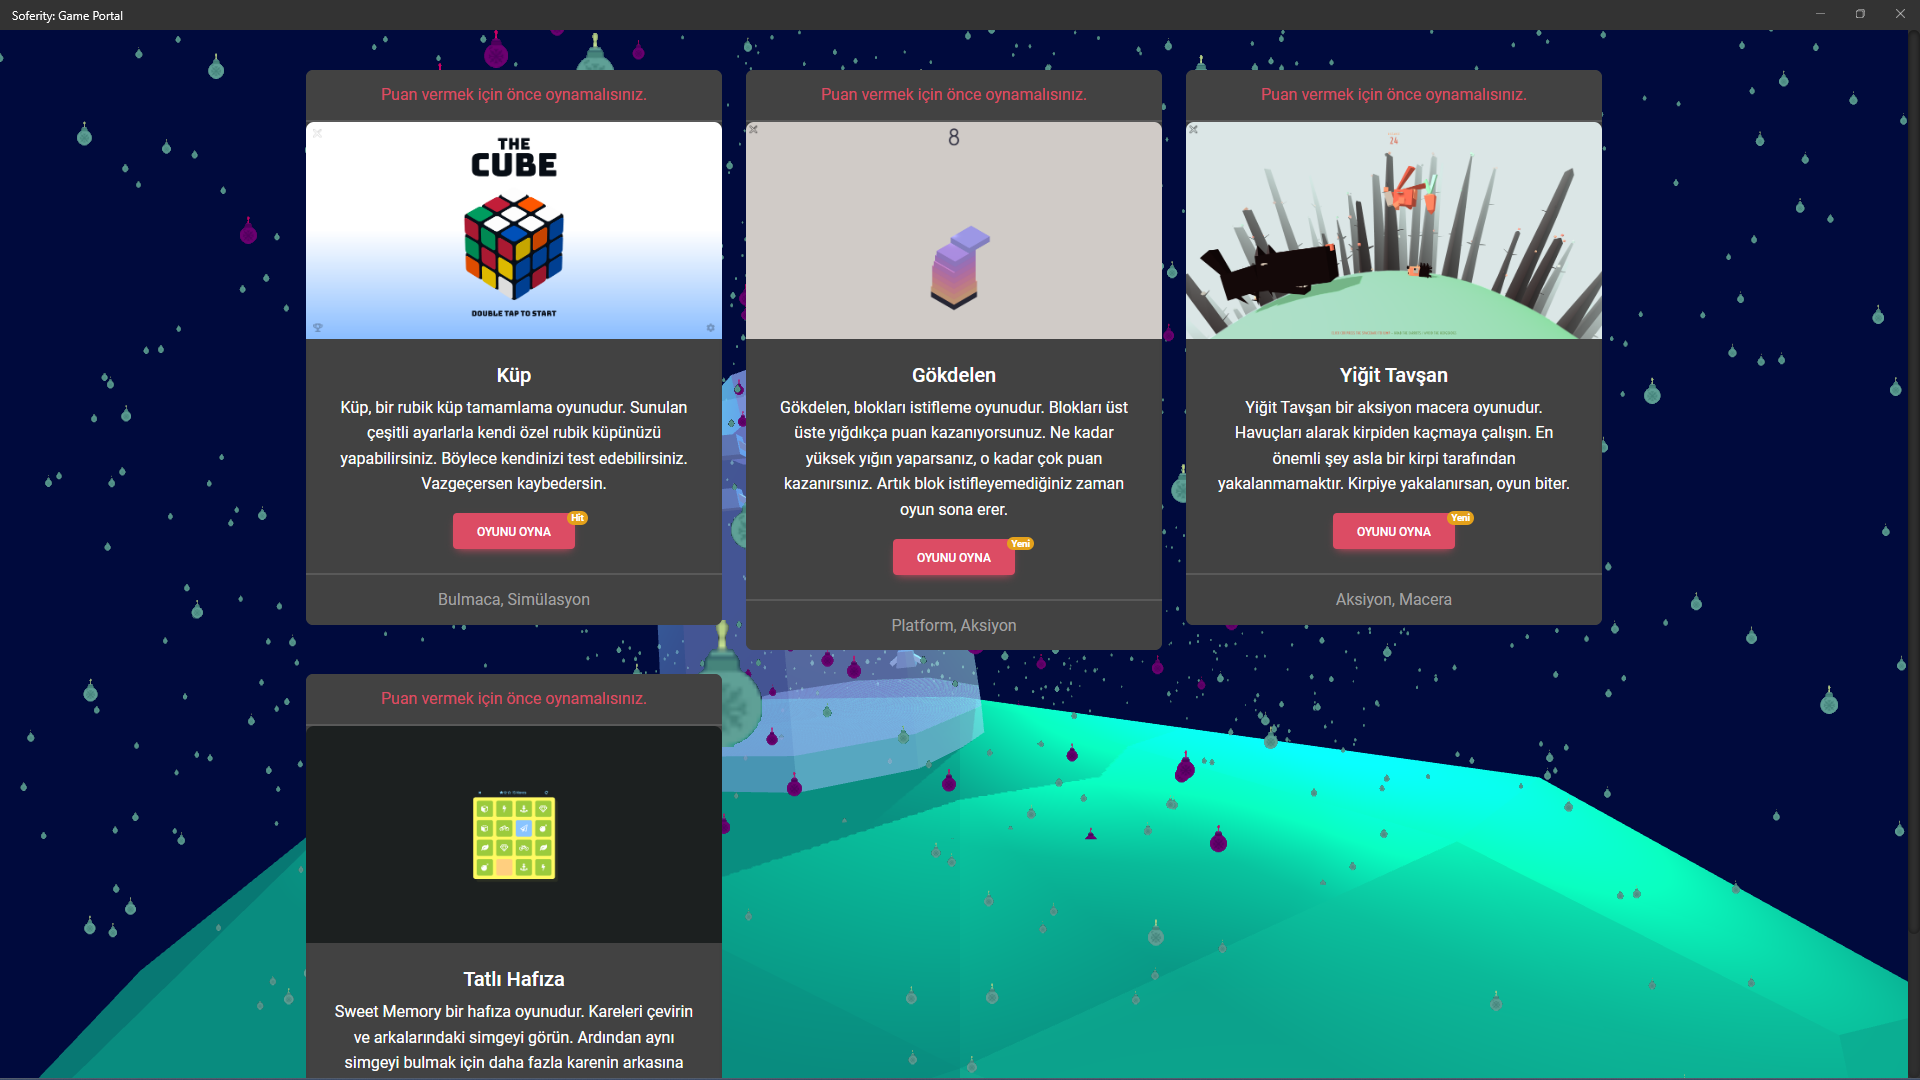
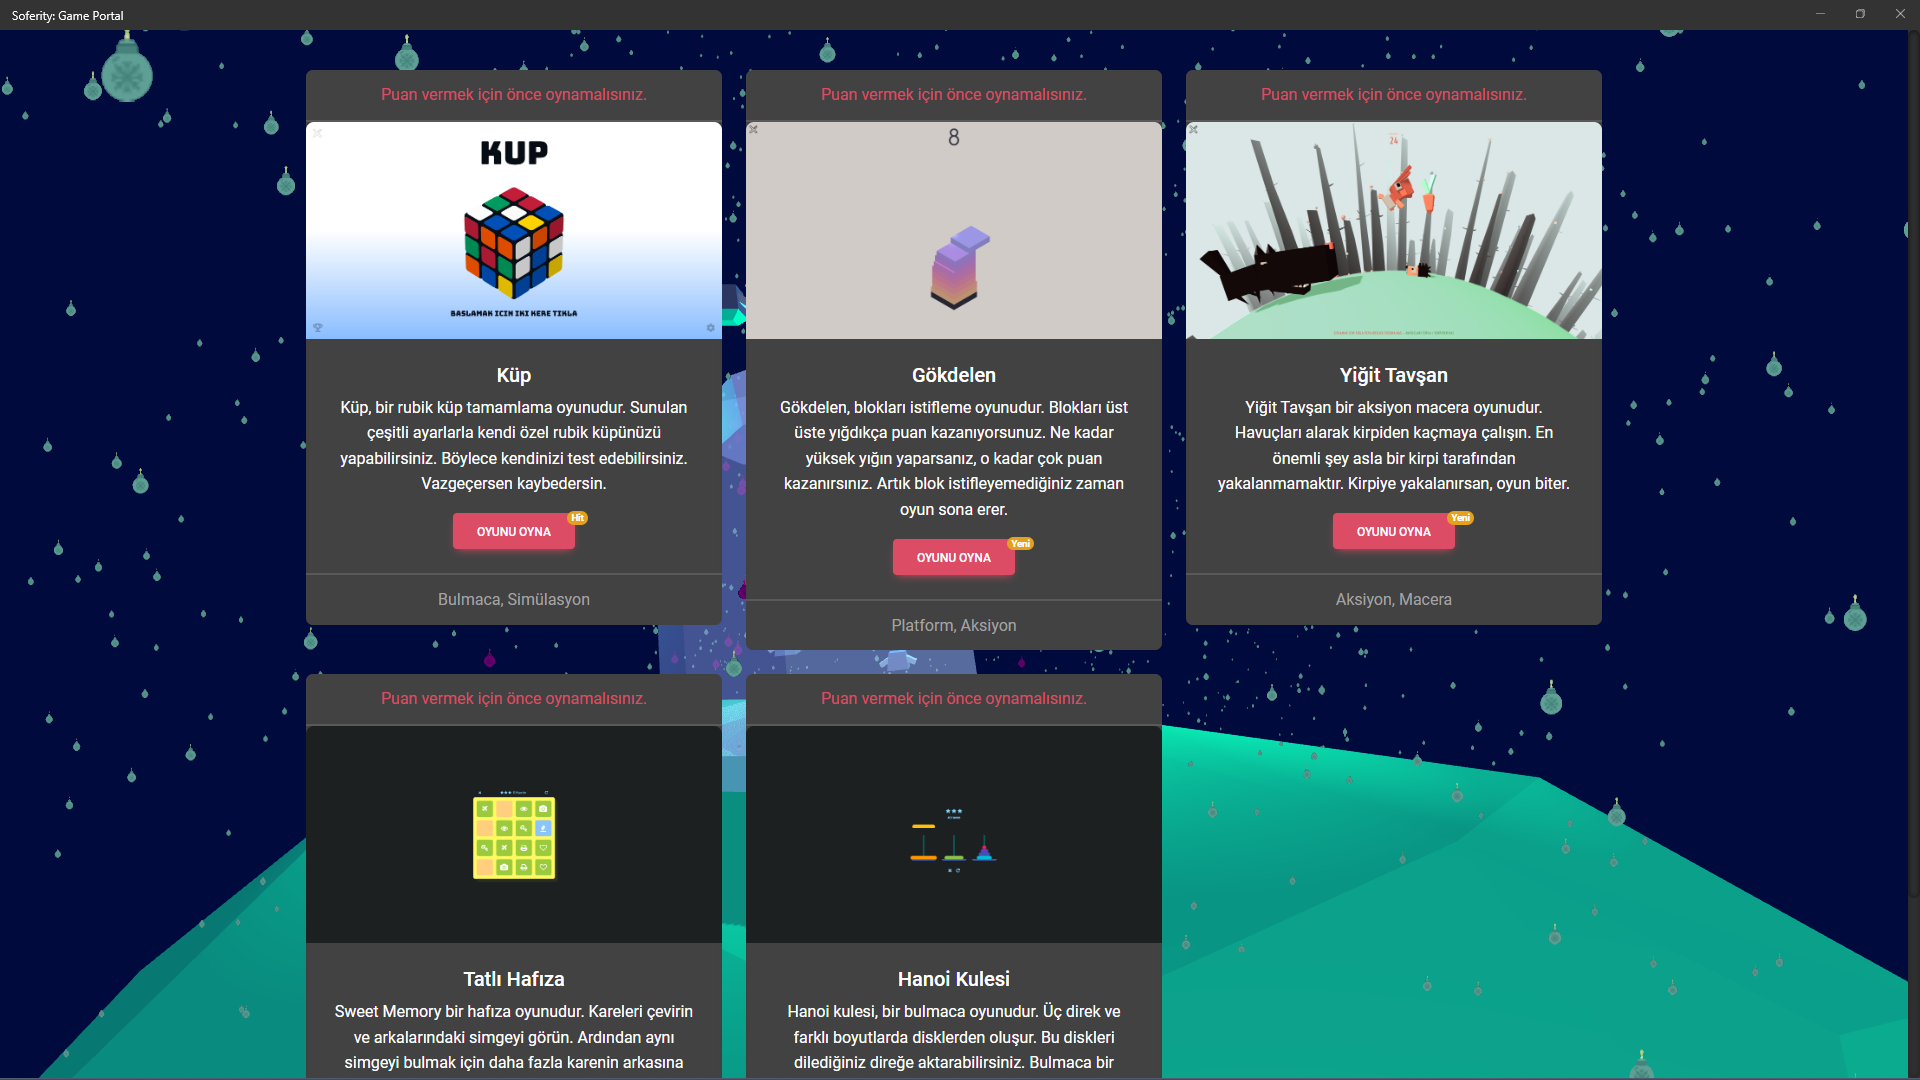
Tower of Hanoi Hazırlığı 5

diff --git a/GamePortal/Resources/Languages/Main/MainLocalization.Designer.cs b/GamePortal/Resources/Languages/Main/MainLocalization.Designer.cs
@@ -142,7 +142,7 @@ namespace GamePortal.Resources.Languages.Main {
         }
         
         /// <summary>
-        ///   Tower of Hanoi is a 2D action platformer with a focus on exploration and combat. You play as a cat who has been separated from their owner and must find their way home. benzeri yerelleştirilmiş bir dize arar.
+        ///   Tower of Hanoi is a puzzle game. The puzzle begins with the disks stacked on one rod in order of decreasing size, the smallest at the top, thus approximating a conical shape. benzeri yerelleştirilmiş bir dize arar.
         /// </summary>
         internal static string DescriptionTowerOfHanoi {
             get {
